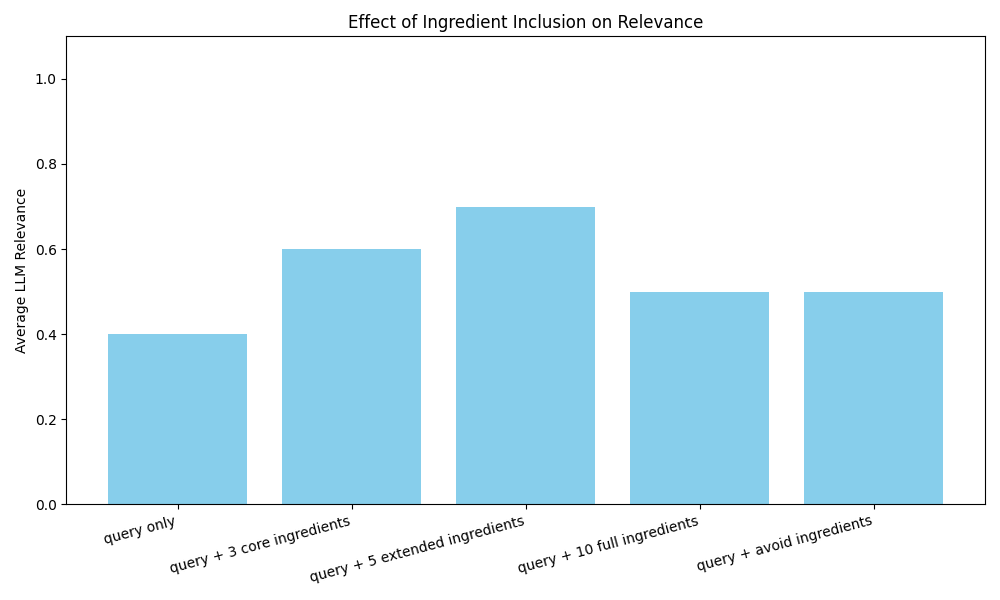
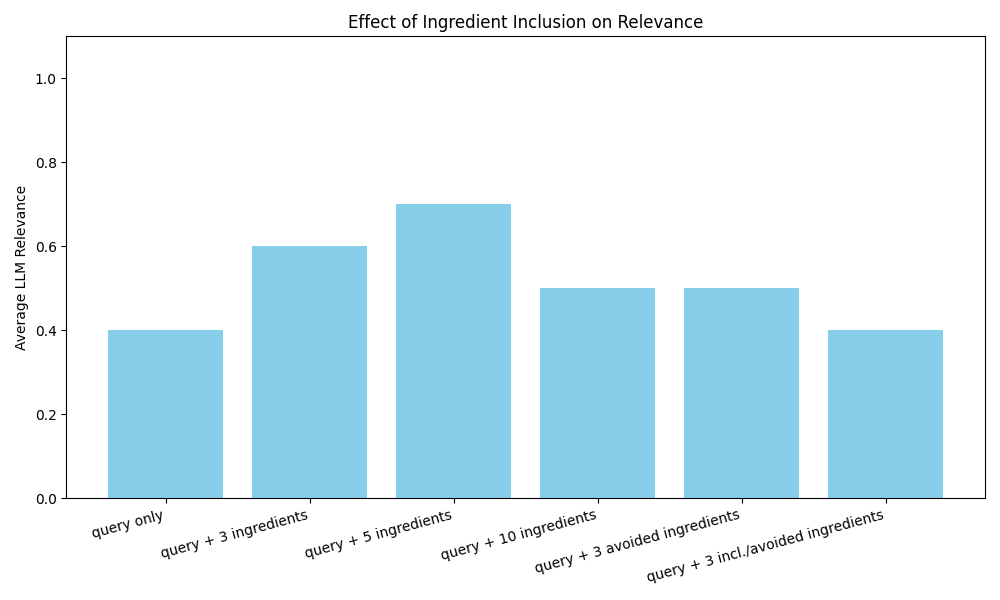
update ingredient image

diff --git a/backend/ingredient_test.py b/backend/ingredient_test.py
@@ -22,29 +22,37 @@ QUERY_CASES = [
         "have": ["chicken", "lettuce", "mayonnaise"],
         "avoid": None,
         "restrictions": None,
-        "label": "query + 3 core ingredients"
+        "label": "query + 3 ingredients"
     },
     {
         "query": "chicken salad with creamy dressing and vegetables",
         "have": ["chicken", "lettuce", "mayonnaise", "celery", "onion"],
         "avoid": None,
         "restrictions": None,
-        "label": "query + 5 extended ingredients"
+        "label": "query + 5 ingredients"
     },
     {
         "query": "chicken salad with creamy dressing and vegetables",
         "have": ["chicken", "lettuce", "mayonnaise", "celery", "onion", "mustard", "vinegar", "dill", "parsley", "lemon juice"],
         "avoid": None,
         "restrictions": None,
-        "label": "query + 10 full ingredients"
+        "label": "query + 10 ingredients"
     },
     {
         "query": "chicken salad with creamy dressing and vegetables",
         "have": None,
         "avoid": ["mayonnaise", "apples", "mint"],
         "restrictions": None,
-        "label": "query + avoid ingredients"
-    }
+        "label": "query + 3 avoided ingredients"
+    },
+    {
+        "query": "chicken salad with creamy dressing and vegetables",
+        "have": ["chicken", "lettuce", "mayonnaise"],
+        "avoid": ["mayonnaise", "apples", "mint"],
+        "restrictions": None,
+        "label": "query + 3 incl./avoided ingredients"
+    },
+
 ]
 
 

diff --git a/backend/openai_eval.py b/backend/openai_eval.py
@@ -1,6 +1,5 @@
 from pathlib import Path
 from openai import OpenAI
-import os
 import re
 import pandas as pd
 import sys
